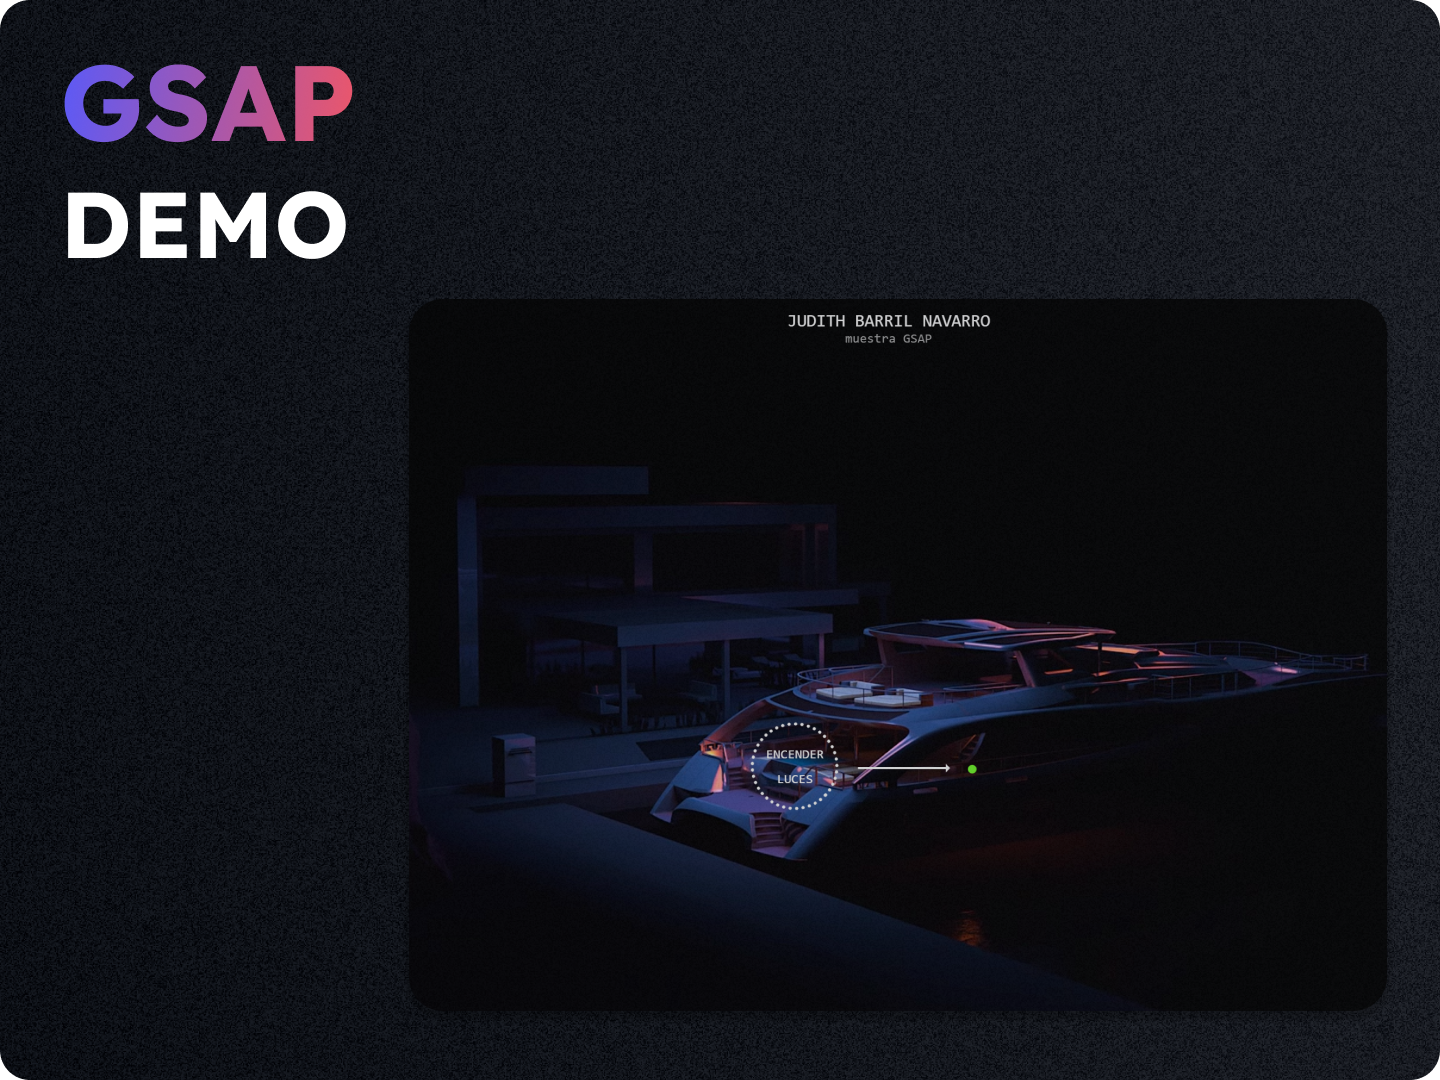
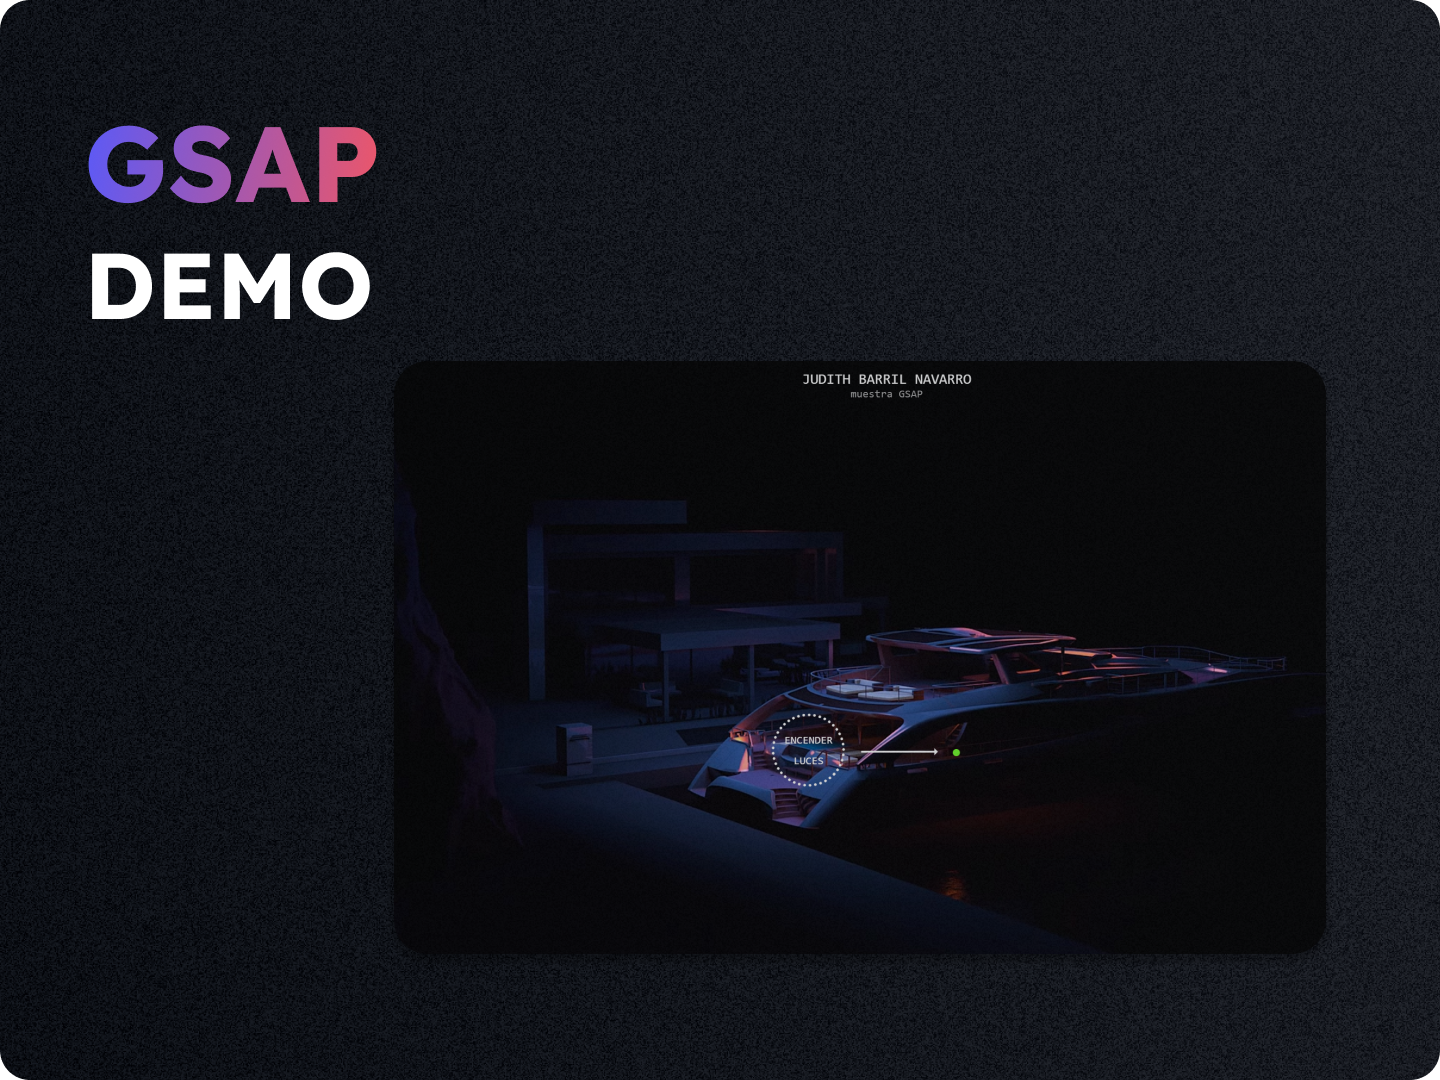
Actualizar tecnologías del proyecto "Web App Gsap" y reemplazar imagen correspondiente(cambiar filtros)

diff --git a/src/components/Projects/Projects.js b/src/components/Projects/Projects.js
@@ -59,7 +59,7 @@ export function loadProjects() {
       id: 5,
       name: "Web App Gsap",
       description: "Diseño y maquetación sencilla como muestra de conocimientos en la libreria GSAP.",
-      technologies: ["React", "Material UI", "CSS", "Node.js, GSAP"],
+      technologies: ["CSS", "GSAP"], 
       image: coverGsap,
       live: "https://gsap-sitetive.netlify.app/",
     }
